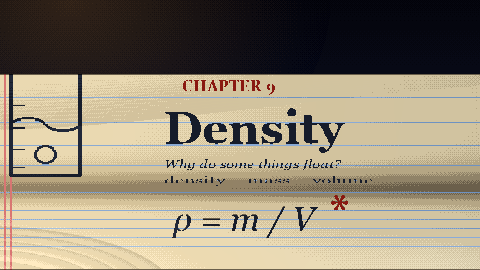
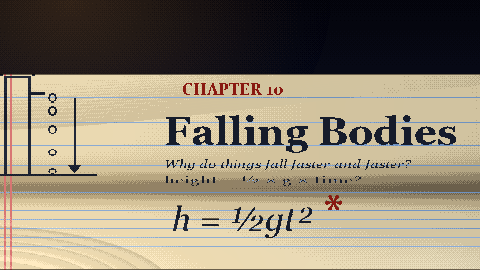
Prologue: the Tower Ghost, not the Rubber Baron, and it leads into the Midnight Fall
The page Smudge lands on is now Chapter 10, Falling Bodies (h = 1/2 gt^2,
with a strobe diagram). Instead of the Baron's eraser, the Tower Ghost
sweeps across and wipes the law off the page, Footnote ties it to
Hollowmere Manor, and the prologue (and its Skip) goes straight to the
Midnight Fall instead of HQ. The asterisk patch now takes paper from the
right, since the new formula sits to its left. Cases can set caught, the
line after the confession; the Midnight Fall says 'No ghost after all'
instead of blaming the Baron.

diff --git a/game/src/scenes/Prologue.ts b/game/src/scenes/Prologue.ts
@@ -3,12 +3,14 @@ import { W, FONT, FEET_ORIGIN, project } from "../consts";
 import { Dialogue } from "../systems/dialogue";
 import { makeGlow, makePixel, dust, wait, tween, playOnce, pageTurn } from "../systems/fx";
 import { sfx, music, ambience } from "../audio";
+import { api } from "../api";
+import { progress } from "../state";
 
 const C = { cu: 0, cv: 92 };
 const P = (x: number, y: number, z: number) => project(x, y, z, C.cu, C.cv);
 
 const SMUDGE_AT = P(-40, 0, 28);
-const ASTERISK = P(99.5, 0, -50.5);
+const ASTERISK = P(93.5, 0, -50.5);
 const FOOT_AT = P(60, 0, 8);
 // the nib image is 210x190 with its tip at (47, 177)
 const NIB_TIP = { x: 47 / 210, y: 177 / 190 };
@@ -43,7 +45,13 @@ export class Prologue extends Phaser.Scene {
     this.skipped = true;
     this.cameras.main.fadeOut(300, 5, 6, 15);
     await wait(this, 320);
-    this.scene.start("HQ");
+    this.toManor();
+  }
+
+  /** The prologue leads straight into the Midnight Fall, the case the ghost story sets up. */
+  private toManor() {
+    if (progress.kit !== "fall" || progress.solved) { progress.reset("fall"); api.current = null; }
+    this.scene.start("District", { kit: "fall", from: "hq" });
   }
 
   private async run(erased: Phaser.GameObjects.Image) {
@@ -93,38 +101,45 @@ export class Prologue extends Phaser.Scene {
 
     await this.dlg.play([
       { who: "foot", expr: "happy", text: "Psst! Over here! I'm Footnote. I live at the bottom of things." },
-      { who: "foot", expr: "neutral", text: "You dripped right onto Chapter 9. Density! Lovely chapter. It's the one that explains why boats float." },
+      { who: "foot", expr: "neutral", text: "You dripped right onto the chapter on falling. Gravity! It's the one that explains why things drop." },
       { who: "smudge", expr: "smug", text: "Riveting." },
     ]);
 
-    // the Rubber Baron's eraser scrubs the law off the page
+    // the Tower Ghost sweeps across the page, and the law fades out behind it
     music("tense");
     sfx("rumble");
     this.cameras.main.shake(1800, 0.006);
     await wait(this, 500);
     smudge.play("surprised_E");
     foot.play("foot_worried_S");
-    const eraser = this.add.image(W + 140, 226, "eraser").setOrigin(0.5, 0.92).setDepth(25);
+    // sheet_ghost.png is two 32 px frames; frame "0" is the ghost with its eyes
+    const tex = this.textures.get("sheet_ghost");
+    if (!tex.has("0")) { tex.add("0", 0, 0, 0, 32, 32); tex.add("1", 0, 32, 0, 32, 32); }
+    const ghost = this.add.image(W + 140, 226, "sheet_ghost", "0").setOrigin(0.5, 0.92).setScale(4).setDepth(25)
+      .setTint(0xc8dcff).setAlpha(0.9);
+    const halo = this.add.image(ghost.x, 180, "glow64").setScale(3.2).setBlendMode(Phaser.BlendModes.ADD).setTint(0x6a9aff).setAlpha(0.35).setDepth(24);
     const crumbs = this.add.particles(0, 0, "px", {
-      speedX: { min: -30, max: 30 }, speedY: { min: -40, max: -10 }, gravityY: 120,
-      lifespan: { min: 400, max: 900 }, tint: [0xd17594, 0x8f8268, 0x5c574d], quantity: 2, frequency: 40,
-      emitting: false,
+      speedX: { min: 10, max: 50 }, speedY: { min: -30, max: -5 },
+      lifespan: { min: 600, max: 1200 }, tint: [0xa8c8ff, 0x6a9aff, 0xe8f0ff], alpha: { start: 0.8, end: 0 },
+      blendMode: Phaser.BlendModes.ADD, quantity: 2, frequency: 30, emitting: false,
     }).setDepth(26);
     const mask = this.make.graphics({ x: 0, y: 0 }, false);
     erased.setVisible(true).setMask(mask.createGeometryMask());
-    sfx("rubStart");
+    sfx("whoosh");
     crumbs.start();
     await tween(this, {
-      targets: eraser, x: -150, duration: 3200, ease: "Sine.easeInOut",
+      targets: ghost, x: -150, duration: 3200, ease: "Sine.easeInOut",
       onUpdate: () => {
-        const ex = eraser.x - 80;
+        const ex = ghost.x;
         mask.clear().fillStyle(0xffffff).fillRect(Math.max(0, ex), 150, W, 120);
-        crumbs.setPosition(eraser.x - 96, 222);
-        eraser.y = 226 + Math.sin(eraser.x * 0.08) * 2;
+        crumbs.setPosition(ghost.x + 50, 200 + Math.random() * 40);
+        ghost.y = 216 + Math.sin(ghost.x * 0.04) * 8;
+        ghost.angle = Math.sin(ghost.x * 0.06) * 6;
+        halo.setPosition(ghost.x, ghost.y - 64);
       },
     });
-    sfx("rubStop");
     crumbs.stop();
+    halo.destroy();
     erased.clearMask(true);
     patch.setVisible(false);
     music("night");
@@ -132,11 +147,11 @@ export class Prologue extends Phaser.Scene {
     if (this.skipped) return;
 
     await this.dlg.play([
-      { who: "foot", expr: "worried", text: "No. No no no. That was the Rubber Baron! He just rubbed out the law of density!" },
-      { who: "smudge", expr: "surprised", text: "Can he DO that?" },
-      { who: "foot", expr: "worried", text: "Without it, nothing knows whether to float or sink. Buoyant Bay will be underwater by morning." },
-      { who: "smudge", expr: "determined", text: "Then somebody has to write it back." },
-      { who: "foot", expr: "happy", text: "Somebody in a detective hat, maybe? Come on. The old Detective Club HQ is just down the gutter." },
+      { who: "foot", expr: "worried", text: "No. No no no. The Tower Ghost! It just wiped the law of falling off the page!" },
+      { who: "smudge", expr: "thinking", text: "Ghosts aren't real." },
+      { who: "foot", expr: "worried", text: "Tell that to Hollowmere Manor. Someone fell from the clock tower tonight, and they all swear the ghost did it." },
+      { who: "smudge", expr: "determined", text: "Then somebody has to find out what really happened." },
+      { who: "foot", expr: "happy", text: "Somebody in a detective hat, maybe? Come on. The manor is just down the gutter." },
     ]);
     if (this.skipped) return;
 
@@ -146,12 +161,12 @@ export class Prologue extends Phaser.Scene {
     this.tweens.add({ targets: foot, x: W + 40, duration: 2200, ease: "Sine.easeIn", delay: 200 });
     this.tweens.add({ targets: shadow, x: W + 20, duration: 2600 });
     await tween(this, { targets: smudge, x: W + 20, duration: 2600 });
-    await pageTurn(this, () => { this.scene.start("HQ", { from: "prologue" }); });
+    await pageTurn(this, () => this.toManor());
   }
 
-  /** Cover the printed asterisk with the strip of page just to its left (ruled lines and all). */
+  /** Cover the printed asterisk with the strip of page just to its right (ruled lines and all). */
   private paperPatch(x: number, y: number) {
-    const w = 22, h = 18, shift = 24;
+    const w = 22, h = 18, shift = -26;                // blank page to the right (the left holds the formula)
     return this.add.image(shift, 0, "prologue").setOrigin(0, 0)
       .setCrop(Math.round(x - w / 2 - shift), Math.round(y - h + 2), w, h).setDepth(2).setVisible(false);
   }

diff --git a/game/src/scenes/CrossExam.ts b/game/src/scenes/CrossExam.ts
@@ -400,7 +400,7 @@ export class CrossExam extends Phaser.Scene {
     progress.culprit = who;
     for (const l of this.content.confess[who]) await this.dlg.say({ who: who as Who, expr: l.expr, text: l.text });
     await this.dlg.play([
-      { who: "foot", expr: "happy", text: "The Baron again! But the truth is proven, and when the truth is proven..." },
+      { who: "foot", expr: "happy", text: this.content.caught ?? "The Baron again! But the truth is proven, and when the truth is proven..." },
       { who: "smudge", expr: "determined", text: "...the law writes itself back." },
     ]);
     progress.solve(progress.kit);

diff --git a/game/src/cases/types.ts b/game/src/cases/types.ts
@@ -46,6 +46,8 @@ export interface CaseDef {
   miss(ev: Evidence): string;
   stuck(ev: Evidence): string;
   confess: Record<string, { expr: string; text: string }[]>;
+  /** Footnote's line after the confession; the default blames the Baron */
+  caught?: string;
   /** cross-examine as "point out the liar": one statement each, present by dropping the card on a suspect */
   point?: { plaque(who: string): string; intro: string; miss(who: string): string };
   /** cross-exam set: the district backdrop (bg.glitch) at this offset, dimmed and in the rain, instead of the bare stage */

diff --git a/game/src/cases/fall/index.ts b/game/src/cases/fall/index.ts
@@ -63,6 +63,7 @@ const CASE: CaseDef = {
     pendle: [{ expr: "shocked", text: "...Nineteen metres. I... confess." }],
   },
   stage: { x: -60, y: 22 },
+  caught: "No ghost after all. The truth is proven, and when the truth is proven...",
   // every suspect swears the same oath, so the cross-exam is one move: whose balcony matches the fall?
   point: {
     plaque: (who) => `${ROOM[who]}\n${metres(who)} m`,

diff --git a/art/world/scene_prologue.py b/art/world/scene_prologue.py
@@ -2,8 +2,8 @@
 floor; the next page curls up behind like a wall. Printed text is a texture
 in page space, pre-stretched so it reads upright through the 20 deg camera.
 
-build(erased=True) renders the same page after the Rubber Baron has rubbed
-the density formula out.
+build(erased=True) renders the same page after the Tower Ghost has wiped
+the law of falling off it.
 """
 import numpy as np
 from PIL import Image, ImageDraw, ImageFont
@@ -67,7 +67,7 @@ def _texture(erased):
 
     if not erased:
         # the law itself, printed on the floor at Smudge's feet
-        x, s, w, h = _stamp(tex, "\u03c1 = m / V", _font("georgiai.ttf", 34), -70, 108, FLOOR_STRETCH, PRINT)
+        x, s, w, h = _stamp(tex, "h = \u00bdgt\u00b2", _font("georgiai.ttf", 34), -70, 108, FLOOR_STRETCH, PRINT)
         ax, _, aw, ah = _stamp(tex, "*", _font("georgiab.ttf", 44), x + w + 6, 108 + 40, FLOOR_STRETCH, PRINT_RED)
         ASTERISK = (ax + aw / 2, FLOOR_FRONT - (108 + 40 + ah * 0.5))
     else:
@@ -80,22 +80,22 @@ def _texture(erased):
         tex[blob & noise & (tex == 0)] = SMEAR
         ASTERISK = (110.0, FLOOR_FRONT - 170.0)
 
-    # the curled page reads like a wall: chapter heading and a beaker diagram
-    _stamp(tex, "CHAPTER 9", _font("georgiab.ttf", 15), -60, S_FLAT + 128, 1.12, PRINT_RED)
-    _stamp(tex, "Density", _font("georgiab.ttf", 46), -78, S_FLAT + 64, 1.12, PRINT)
-    _stamp(tex, "Why do some things float?", _font("georgiai.ttf", 15), -78, S_FLAT + 40, 1.12, PRINT)
-    _stamp(tex, "density = mass ÷ volume", _font("georgia.ttf", 19), -78, S_FLAT + 12, 1.12, PRINT)
-    # beaker diagram (left of the heading)
+    # the curled page reads like a wall: chapter heading and a tower diagram
+    _stamp(tex, "CHAPTER 10", _font("georgiab.ttf", 15), -60, S_FLAT + 128, 1.12, PRINT_RED)
+    _stamp(tex, "Falling Bodies", _font("georgiab.ttf", 40), -78, S_FLAT + 64, 1.12, PRINT)
+    _stamp(tex, "Why do things fall faster and faster?", _font("georgiai.ttf", 15), -78, S_FLAT + 40, 1.12, PRINT)
+    _stamp(tex, "height = ½ × g × time²", _font("georgia.ttf", 19), -78, S_FLAT + 12, 1.12, PRINT)
+    # tower diagram (left of the heading): a tower, the ground, and a strobe of a falling ball spreading out
     img = Image.new("L", (110, 130), 0)
     d = ImageDraw.Draw(img)
-    d.line([(20, 10), (20, 118), (90, 118), (90, 10)], fill=255, width=4)
-    d.line([(14, 10), (26, 10)], fill=255, width=3)
-    d.line([(84, 10), (96, 10)], fill=255, width=3)
-    for yy in (40, 62, 84, 106):
-        d.line([(20, yy), (34, yy)], fill=255, width=2)
-    d.arc([(20, 52), (55, 66)], 180, 360, fill=255, width=3)
-    d.arc([(55, 52), (90, 66)], 0, 180, fill=255, width=3)
-    d.ellipse([(44, 80), (66, 102)], outline=255, width=3)
+    d.rectangle([(14, 14), (40, 118)], outline=255, width=3)
+    d.polygon([(10, 14), (44, 14), (27, 2)], outline=255)
+    d.line([(40, 30), (54, 30)], fill=255, width=3)
+    d.line([(4, 118), (106, 118)], fill=255, width=3)
+    for y in (30, 42, 60, 84, 108):                    # equal time steps, the gaps growing
+        d.ellipse([(58, y), (66, y + 8)], outline=255, width=2)
+    d.line([(84, 34), (84, 112)], fill=255, width=2)
+    d.polygon([(78, 104), (90, 104), (84, 114)], fill=255)
     a = np.array(img.resize((110, int(130 * 1.12)))) > 100
     top = srow(S_FLAT + 22 + a.shape[0])
     left = -250 - X0
